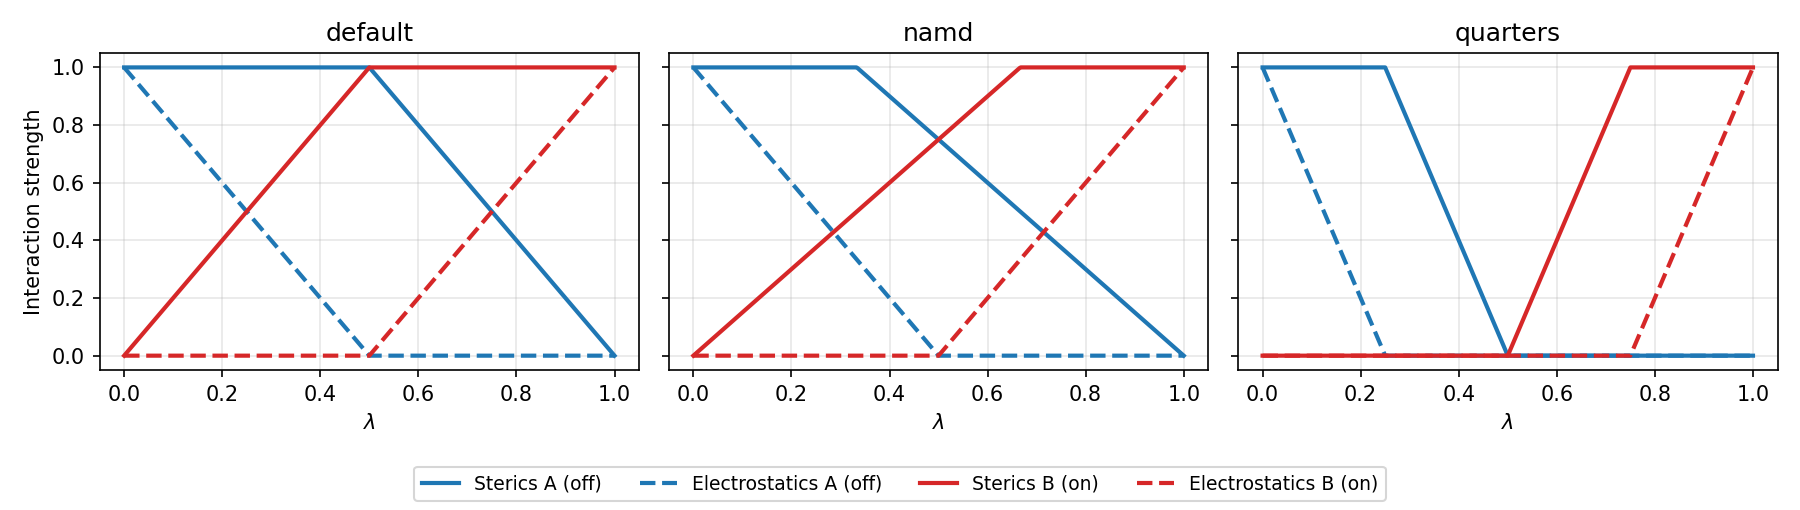
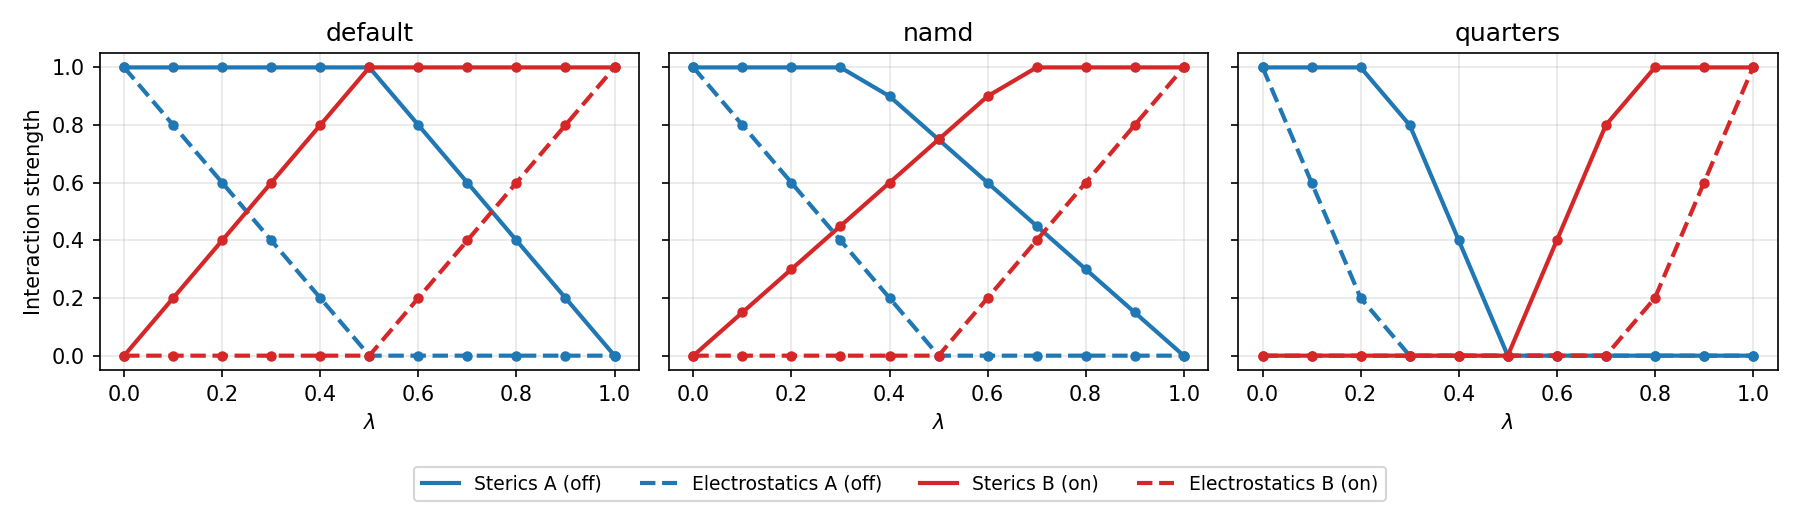
apply feedback and add core terms plot

diff --git a/docs/guide/protocols/relativehybridtopology.rst b/docs/guide/protocols/relativehybridtopology.rst
@@ -94,6 +94,22 @@ interpolated linearly. The available options differ only in *when* the electrost
 
    Strength of the electrostatic (dashed) and steric (solid) interactions of the unique atoms of state A (blue)
    and state B (red) as a function of ``lambda``, for each of the available ``lambda_functions``.
+   The points mark the ``lambda`` values of the default 11 window schedule.
+
+For the core (mapped) atoms, all lambda functions interpolate the charge, :math:`\sigma` and :math:`\epsilon`
+linearly between their state A and state B values, so the choice of ``lambda_functions`` does not affect them.
+
+.. figure:: /_static/lambda_functions_core.png
+   :alt: Linear interpolation of the charge, sigma and epsilon of a core atom between its state A and state B values.
+
+   Interpolation of the nonbonded parameters of a core atom (charge, :math:`\sigma` and :math:`\epsilon`) from their
+   state A value to their state B value. The points mark the ``lambda`` values of the default 11 window schedule.
+
+.. note:: We recommend the ``default`` option as it has been extensively tested and validated in
+         benchmarks of the protocol, so its performance is best characterised. ``namd`` and ``quarters`` are provided for
+         users who want to explore alternative alchemical pathways, but they have not been benchmarked to the same extent.
+         If you do change the function, it is good practice to check the overlap between neighbouring windows
+         (see :ref:`Energetic and replica exchange analysis <guide/protocols/relativehybridtopology:Energetic and replica exchange analysis>`) and, if needed, increase ``lambda_windows``.
 
 The choice of lambda function can be configured via the protocol settings, for example:
 
